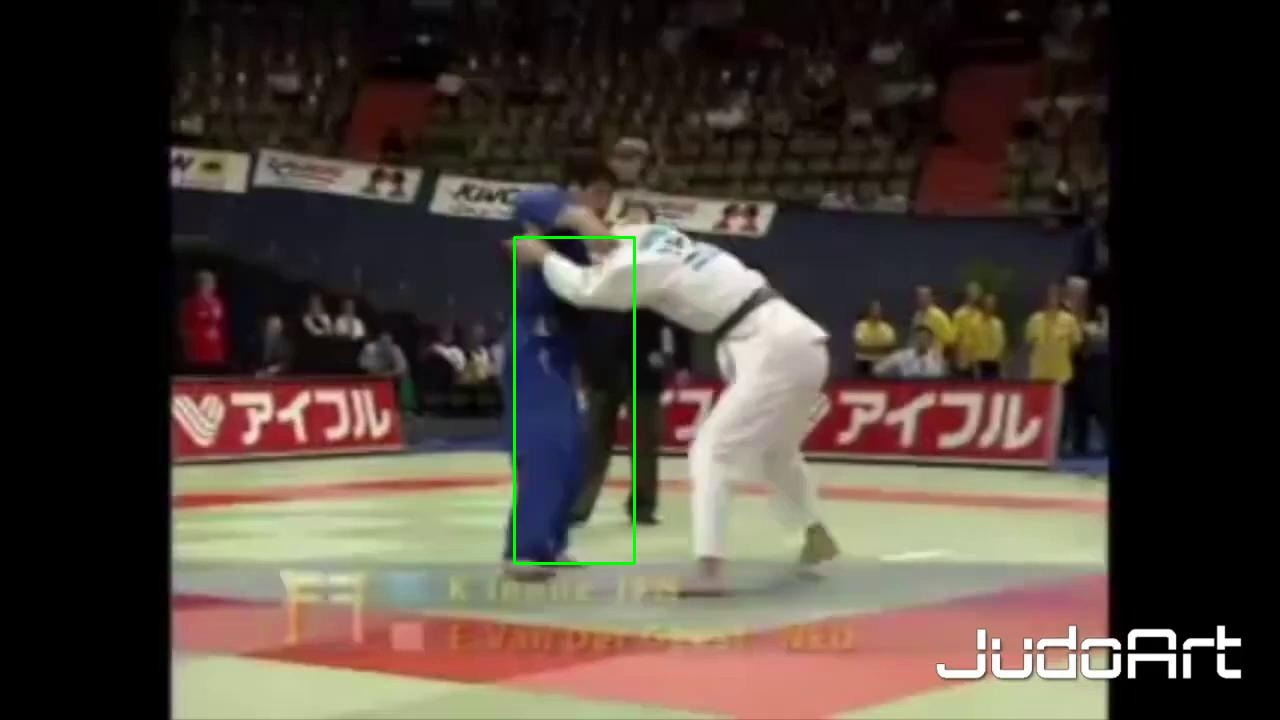
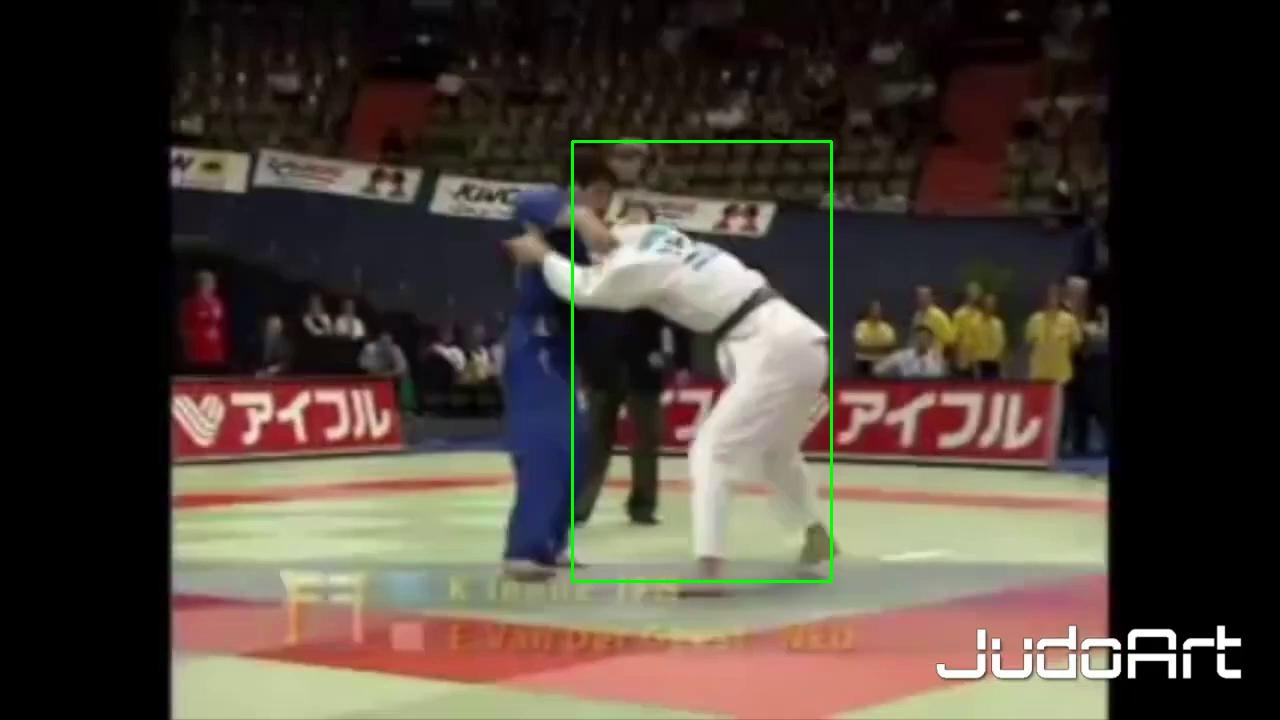
boxes output

Changed region(s): [[0.375, 0.1833, 0.6562, 0.825]]

diff --git a/MultiStagePoseTracking/boxes.py b/MultiStagePoseTracking/boxes.py
@@ -3,35 +3,6 @@ from transformers import AutoImageProcessor, DeformableDetrForObjectDetection
 import torch
 from PIL import Image
 
-def get_objects(image):
-    # Convert the frame from BGR to RGB format
-    frame_rgb = cv2.cvtColor(frame, cv2.COLOR_BGR2RGB)
-
-    # Create a PIL Image object from the frame
-    pil_image = Image.fromarray(frame_rgb)
-    processor = AutoImageProcessor.from_pretrained("SenseTime/deformable-detr")
-    model = DeformableDetrForObjectDetection.from_pretrained("SenseTime/deformable-detr")
-
-    inputs = processor(images=pil_image, return_tensors="pt")
-    outputs = model(**inputs)
-
-    # convert outputs (bounding boxes and class logits) to COCO API
-    # let's only keep detections with score > 0.7
-    target_sizes = torch.tensor([pil_image.size[::-1]])
-    results = processor.post_process_object_detection(outputs, target_sizes=target_sizes, threshold=0.7)[0]
-
-    for score, label, box in zip(results["scores"], results["labels"], results["boxes"]):
-        box = [round(i, 2) for i in box.tolist()]
-        if model.config.id2label[label.item()] == 'person':
-            print(f"Detected {model.config.id2label[label.item()]} with confidence "    
-                f"{round(score.item(), 3)} at location {box}")
-
-            int_array = [int(x) for x in box]
-            x1, y1, x2, y2 = int_array
-            image = cv2.imread('example.jpg')
-            cv2.rectangle(image, (x1,y1), (x2,y2), color=(0, 255, 0), thickness=2   )
-            cv2.imwrite("boxed_example.jpg", image)
-
 # Open the input video
 video_path = '../../FINAL DATASET/ALL/train/Uchi Mata/Uchi Mata_train_10.mp4'
 input_video = cv2.VideoCapture(video_path)
@@ -43,21 +14,49 @@ fps = input_video.get(cv2.CAP_PROP_FPS)
 frame_count = int(input_video.get(cv2.CAP_PROP_FRAME_COUNT))
 
 # Define the codec and create VideoWriter object
-fourcc = cv2.VideoWriter_fourcc(*'mp4v')
+fourcc = cv2.VideoWriter_fourcc(*'MP4V')
 output_video = cv2.VideoWriter('output_video.mp4', fourcc, fps, (frame_width, frame_height))
 
+print(frame_width, frame_height, fps, frame_count)
+
+device = torch.device("cuda" if torch.cuda.is_available() else "cpu")
+processor = AutoImageProcessor.from_pretrained("SenseTime/deformable-detr")
+model = DeformableDetrForObjectDetection.from_pretrained("SenseTime/deformable-detr").to(device)
+
 # Process each frame
-for _ in range(frame_count):
-    ret, frame = input_video.read()
+ret, frame = input_video.read()
+# for _ in range(frame_count):
+while ret:
+    # Convert the frame from BGR to RGB format
+    frame_rgb = cv2.cvtColor(frame, cv2.COLOR_BGR2RGB)
 
-    if not ret:
-        break
+    # Create a PIL Image object from the frame
+    pil_image = Image.fromarray(frame_rgb)
 
-    get_objects(frame)
+    inputs = processor(images=pil_image, return_tensors="pt").to(device)
+    outputs = model(**inputs)
+
+    # convert outputs (bounding boxes and class logits) to COCO API
+    # let's only keep detections with score > 0.7
+    target_sizes = torch.tensor([pil_image.size[::-1]])
+    results =  processor.post_process_object_detection(outputs, target_sizes=target_sizes, threshold=0.7)[0]
+
+    for score, label, box in zip(results["scores"], results["labels"], results["boxes"]):
+        box = [round(i, 2) for i in box.tolist()]
+        if label.item() == 1:
+            print(f"Detected person with confidence "    
+                f"{round(score.item(), 3)} at location {box}")
+
+            int_array = [int(x) for x in box]
+            x1, y1, x2, y2 = int_array
+            frame = cv2.rectangle(frame, (x1,y1), (x2,y2), color=(0, 255, 0), thickness=2)
 
     # Write the frame to the output video
+    # cv2.imwrite("boxed_frame.jpg", frame)
+
     output_video.write(frame)
+    ret, frame = input_video.read()
 
 # Release the VideoCapture and VideoWriter objects
-input_video.release()
 output_video.release()
+input_video.release()

diff --git a/MultiStagePoseTracking/box_mse.py b/MultiStagePoseTracking/box_mse.py
@@ -1,0 +1,36 @@
+import cv2
+import numpy as np
+
+def find_closest_box(boxes, frame_width, frame_height):
+    
+    center_x = frame_width // 2
+    center_y = frame_height // 2
+    min_distance = float('inf')
+    
+    closest_box1 = None
+    closest_box2 = None
+
+    for box in boxes:
+        box = [round(i, 2) for i in box.tolist()]
+        int_box = [int(x) for x in box]
+        # Calculate the center of the box
+        box_center_x = (int_box[0] + int_box[2]) // 2
+        box_center_y = (int_box[1] + int_box[3]) // 2
+
+        # Calculate the distance from the center of the image to the center of the box
+        # np.sqrt(((x1+x2)/2-640)**2 + ((y1+y2)/2-360)**2)
+        distance = np.sqrt((box_center_x - center_x)**2 + (box_center_y - center_y)**2)
+
+        # Update the closest box if necessary
+        if distance < min_distance:
+            min_distance = distance
+            closest_box2 = closest_box1
+            closest_box1 = box
+
+    return closest_box1, closest_box2
+
+# Example usage
+# image_shape = (480, 640)  # Example image shape (height, width)
+# boxes = [((100, 100), (200, 200)), ((300, 300), (400, 400)), ((200, 200), (300, 300))]  # Example list of boxes
+# closest_box = find_closest_box(boxes, image_shape)
+# print("Closest Box:", closest_box)

diff --git a/MultiStagePoseTracking/model.py b/MultiStagePoseTracking/model.py
@@ -9,8 +9,8 @@ class JudoTechniqueClassifier(torch.nn.Module):
     def __init__(self, num_outputs):
         super(JudoTechniqueClassifier, self).__init__()
         # Person Detection: Deformable DETR model with ResNet-50 backbone
-        self.processor = AutoImageProcessor.from_pretrained("SenseTime/deformable-detr")
-        self.person_detection_model = DeformableDetrForObjectDetection.from_pretrained("SenseTime/deformable-detr")
+        # self.processor = AutoImageProcessor.from_pretrained("SenseTime/deformable-detr")
+        # self.person_detection_model = DeformableDetrForObjectDetection.from_pretrained("SenseTime/deformable-detr")
 
         # Pose Detection: 
         self.pose_detection_model = None

diff --git a/MultiStagePoseTracking/train.py b/MultiStagePoseTracking/train.py
@@ -20,6 +20,7 @@ def train(model, train_loader, optimizer, criterion, device, epoch, num_epochs):
     running_loss = 0.0
     i = 0
     for videos, labels in train_loader:
+        print(labels)
         videos, labels = videos.to(device), labels.to(device)
         optimizer.zero_grad()
         outputs = model(videos)
@@ -85,7 +86,8 @@ model = JudoTechniqueClassifier(num_outputs)
 model.to(device)
 
 # Define optimizer and loss function
-optimizer = optim.Adam(model.parameters(), lr=0.001)
+# optimizer = optim.Adam(model.parameters(), lr=0.001)
+optimizer = None
 criterion = nn.CrossEntropyLoss()
 
 # Training loop